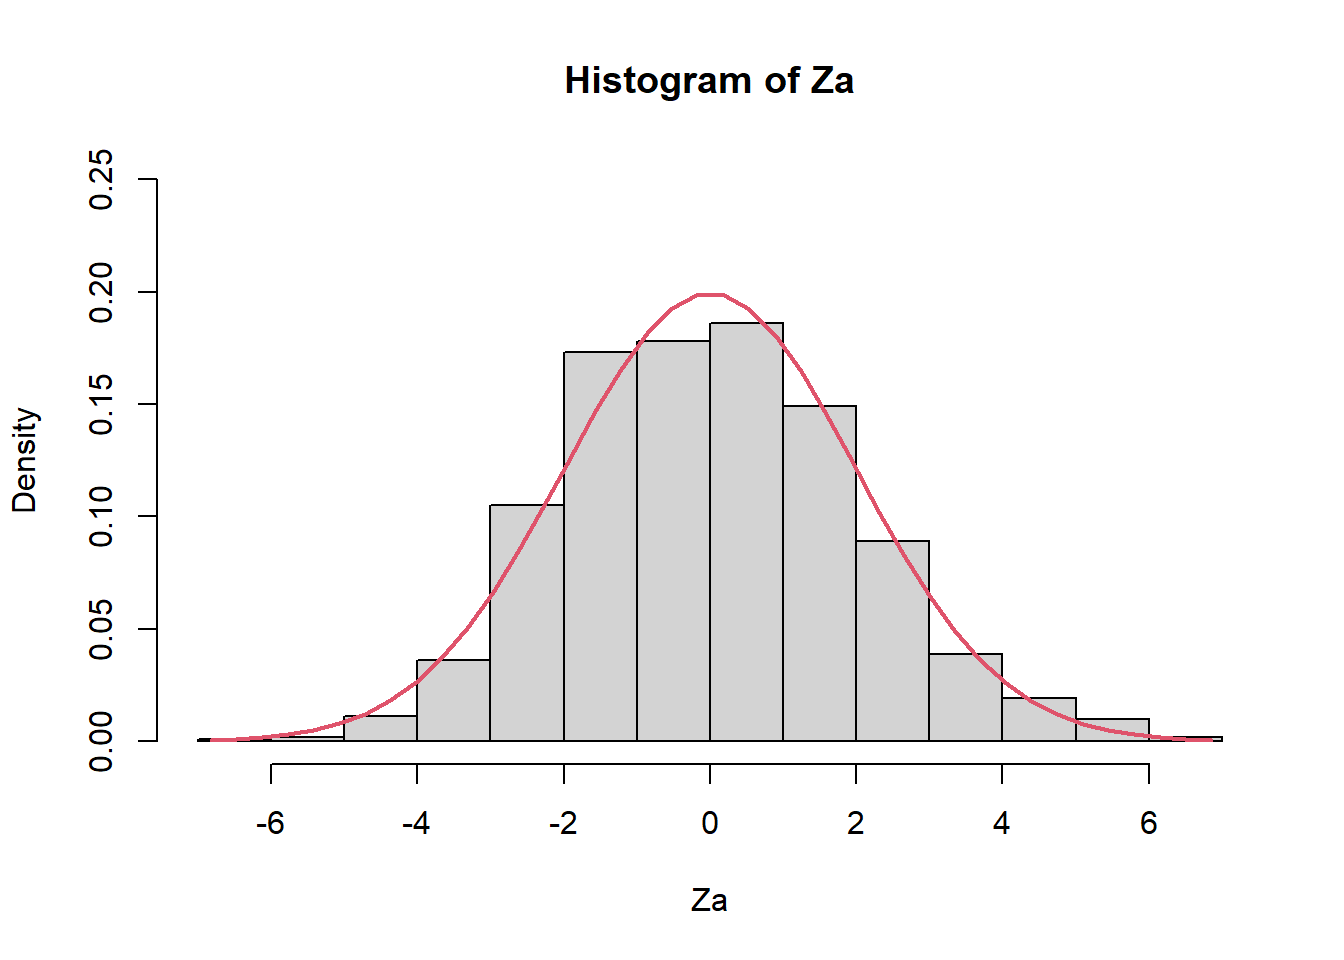
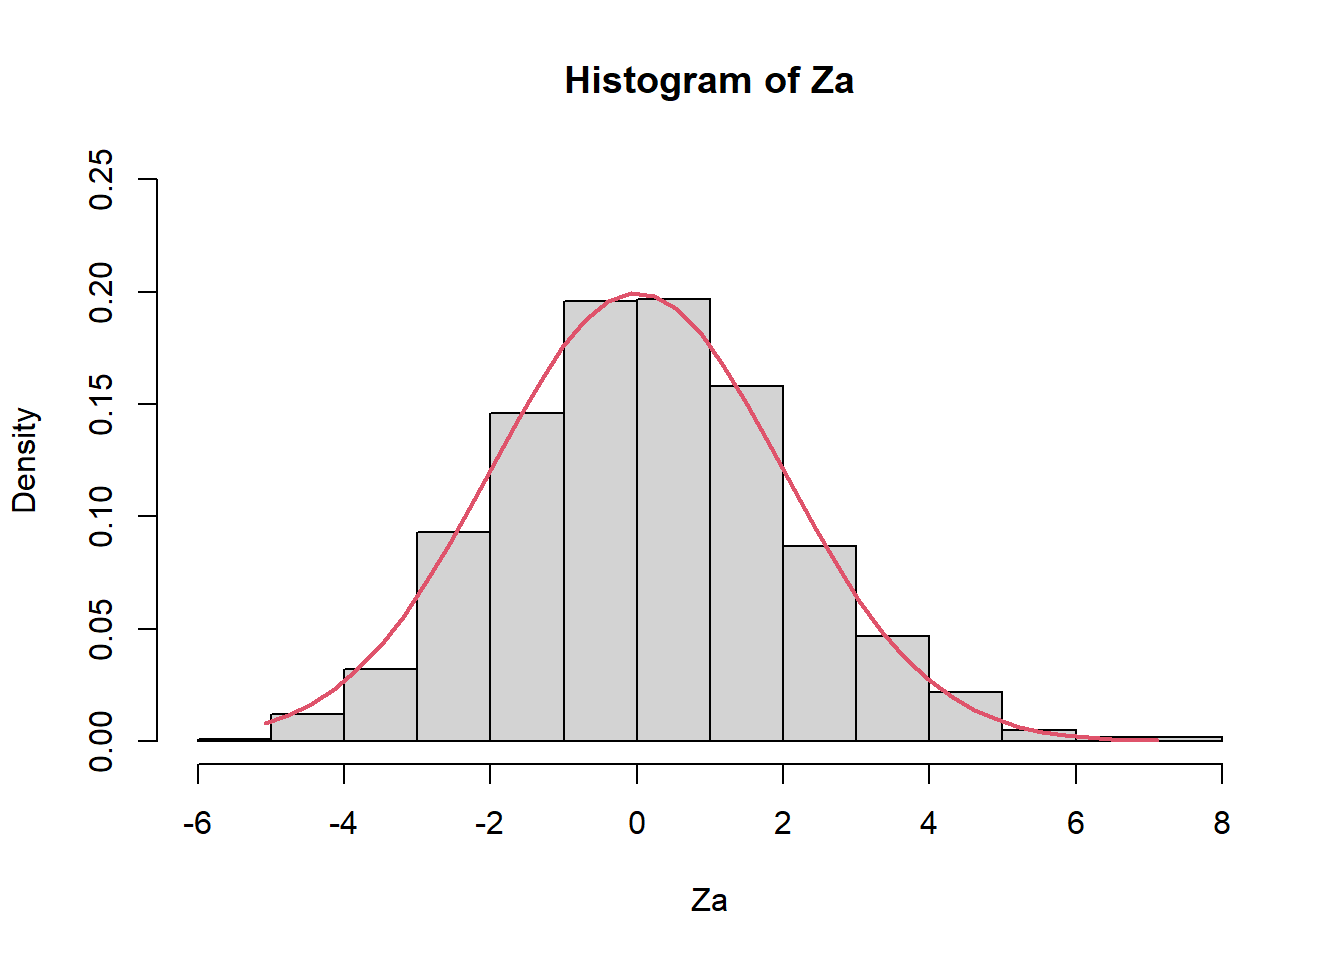
clase08

diff --git a/lab02.html b/lab02.html
@@ -91,7 +91,10 @@ pre > code.sourceCode > span > a:first-child::before { text-decoration: underlin
   <li><a href="#veamos-qué-pasaría-con-n-grande-n150." id="toc-veamos-qué-pasaría-con-n-grande-n150." class="nav-link" data-scroll-target="#veamos-qué-pasaría-con-n-grande-n150."><span class="header-section-number">1.3</span> Veamos qué pasaría con n grande (n=150).</a></li>
   <li><a href="#veamos-qué-pasaría-con-n-grande-n300." id="toc-veamos-qué-pasaría-con-n-grande-n300." class="nav-link" data-scroll-target="#veamos-qué-pasaría-con-n-grande-n300."><span class="header-section-number">1.4</span> Veamos qué pasaría con n grande (n=300).</a></li>
   </ul></li>
-  <li><a href="#comportamiento-del-emv-de-la-desviación-estándar-de-una-población-normal" id="toc-comportamiento-del-emv-de-la-desviación-estándar-de-una-población-normal" class="nav-link" data-scroll-target="#comportamiento-del-emv-de-la-desviación-estándar-de-una-población-normal"><span class="header-section-number">2</span> Comportamiento del EMV de la desviación estándar de una población normal</a></li>
+  <li><a href="#comportamiento-del-emv-de-la-desviación-estándar-de-una-población-normal" id="toc-comportamiento-del-emv-de-la-desviación-estándar-de-una-población-normal" class="nav-link" data-scroll-target="#comportamiento-del-emv-de-la-desviación-estándar-de-una-población-normal"><span class="header-section-number">2</span> Comportamiento del EMV de la desviación estándar de una población normal</a>
+  <ul class="collapse">
+  <li><a href="#visualización-variando-n" id="toc-visualización-variando-n" class="nav-link" data-scroll-target="#visualización-variando-n"><span class="header-section-number">2.1</span> Visualización variando <span class="math inline">\(n\)</span></a></li>
+  </ul></li>
   </ul>
 </nav>
 </div>
@@ -152,11 +155,11 @@ pre > code.sourceCode > span > a:first-child::before { text-decoration: underlin
 </div>
 <div class="sourceCode cell-code" id="cb3"><pre class="sourceCode r code-with-copy"><code class="sourceCode r"><span id="cb3-1"><a href="#cb3-1" aria-hidden="true" tabindex="-1"></a><span class="fu">mean</span>(media_X)</span></code><button title="Copiar al portapapeles" class="code-copy-button"><i class="bi"></i></button></pre></div>
 <div class="cell-output cell-output-stdout">
-<pre><code>[1] 0.499121</code></pre>
+<pre><code>[1] 0.4962818</code></pre>
 </div>
 <div class="sourceCode cell-code" id="cb5"><pre class="sourceCode r code-with-copy"><code class="sourceCode r"><span id="cb5-1"><a href="#cb5-1" aria-hidden="true" tabindex="-1"></a><span class="fu">var</span>(media_X)</span></code><button title="Copiar al portapapeles" class="code-copy-button"><i class="bi"></i></button></pre></div>
 <div class="cell-output cell-output-stdout">
-<pre><code>[1] 0.01235493</code></pre>
+<pre><code>[1] 0.01264798</code></pre>
 </div>
 </div>
 <p>Observe que teóricamente <span class="math inline">\(E(\bar{X})=0.5\)</span> y <span class="math inline">\(Var(\bar{X})=\frac{\beta^2}{n}=\frac{0.5^2}{20}=0.0125\)</span>. El TLC nos garantiza que <span class="math display">\[Z=\frac{\bar{X}-\mu}{\sigma/\sqrt{n}} \overset{d}{\rightarrow} N(0,1).\]</span> Es decir, <span class="math inline">\(Z\)</span> se aproxima cada vez a la normal estándar cuando <span class="math inline">\(n\rightarrow \infty\)</span>. Por ejemplo, con solo <span class="math inline">\(n=20\)</span>, tenemos</p>
@@ -170,11 +173,11 @@ pre > code.sourceCode > span > a:first-child::before { text-decoration: underlin
 </div>
 <div class="sourceCode cell-code" id="cb8"><pre class="sourceCode r code-with-copy"><code class="sourceCode r"><span id="cb8-1"><a href="#cb8-1" aria-hidden="true" tabindex="-1"></a><span class="fu">mean</span>(Z)</span></code><button title="Copiar al portapapeles" class="code-copy-button"><i class="bi"></i></button></pre></div>
 <div class="cell-output cell-output-stdout">
-<pre><code>[1] -0.007861934</code></pre>
+<pre><code>[1] -0.03325625</code></pre>
 </div>
 <div class="sourceCode cell-code" id="cb10"><pre class="sourceCode r code-with-copy"><code class="sourceCode r"><span id="cb10-1"><a href="#cb10-1" aria-hidden="true" tabindex="-1"></a><span class="fu">var</span>(Z)</span></code><button title="Copiar al portapapeles" class="code-copy-button"><i class="bi"></i></button></pre></div>
 <div class="cell-output cell-output-stdout">
-<pre><code>[1] 0.9883946</code></pre>
+<pre><code>[1] 1.011838</code></pre>
 </div>
 </div>
 <p>De la misma forma, puedo calcular</p>
@@ -192,11 +195,11 @@ Z_a=n^{\frac{1}{2}}(\bar{X}-\mu) \overset{d}{\rightarrow} N(0,\sigma^2)
 </div>
 <div class="sourceCode cell-code" id="cb13"><pre class="sourceCode r code-with-copy"><code class="sourceCode r"><span id="cb13-1"><a href="#cb13-1" aria-hidden="true" tabindex="-1"></a><span class="fu">mean</span>(Za)</span></code><button title="Copiar al portapapeles" class="code-copy-button"><i class="bi"></i></button></pre></div>
 <div class="cell-output cell-output-stdout">
-<pre><code>[1] -0.003930967</code></pre>
+<pre><code>[1] -0.01662812</code></pre>
 </div>
 <div class="sourceCode cell-code" id="cb15"><pre class="sourceCode r code-with-copy"><code class="sourceCode r"><span id="cb15-1"><a href="#cb15-1" aria-hidden="true" tabindex="-1"></a><span class="fu">var</span>(Za)</span></code><button title="Copiar al portapapeles" class="code-copy-button"><i class="bi"></i></button></pre></div>
 <div class="cell-output cell-output-stdout">
-<pre><code>[1] 0.2470987</code></pre>
+<pre><code>[1] 0.2529596</code></pre>
 </div>
 </div>
 </section>
@@ -207,12 +210,12 @@ Z_a=n^{\frac{1}{2}}(\bar{X}-\mu) \overset{d}{\rightarrow} N(0,\sigma^2)
 <span id="cb17-2"><a href="#cb17-2" aria-hidden="true" tabindex="-1"></a><span class="fu">head</span>(<span class="fu">cbind</span>(media_X,inv_media_X))</span></code><button title="Copiar al portapapeles" class="code-copy-button"><i class="bi"></i></button></pre></div>
 <div class="cell-output cell-output-stdout">
 <pre><code>       media_X inv_media_X
-[1,] 0.4455646    2.244344
-[2,] 0.4585123    2.180967
-[3,] 0.6388522    1.565307
-[4,] 0.4321656    2.313928
-[5,] 0.5409491    1.848603
-[6,] 0.3435712    2.910605</code></pre>
+[1,] 0.4649204    2.150906
+[2,] 0.5897773    1.695555
+[3,] 0.4131797    2.420254
+[4,] 0.4549265    2.198157
+[5,] 0.3540132    2.824753
+[6,] 0.5687349    1.758289</code></pre>
 </div>
 <div class="sourceCode cell-code" id="cb19"><pre class="sourceCode r code-with-copy"><code class="sourceCode r"><span id="cb19-1"><a href="#cb19-1" aria-hidden="true" tabindex="-1"></a><span class="fu">hist</span>(inv_media_X)</span></code><button title="Copiar al portapapeles" class="code-copy-button"><i class="bi"></i></button></pre></div>
 <div class="cell-output-display">
@@ -220,11 +223,11 @@ Z_a=n^{\frac{1}{2}}(\bar{X}-\mu) \overset{d}{\rightarrow} N(0,\sigma^2)
 </div>
 <div class="sourceCode cell-code" id="cb20"><pre class="sourceCode r code-with-copy"><code class="sourceCode r"><span id="cb20-1"><a href="#cb20-1" aria-hidden="true" tabindex="-1"></a><span class="fu">mean</span>(media_X)</span></code><button title="Copiar al portapapeles" class="code-copy-button"><i class="bi"></i></button></pre></div>
 <div class="cell-output cell-output-stdout">
-<pre><code>[1] 0.499121</code></pre>
+<pre><code>[1] 0.4962818</code></pre>
 </div>
 <div class="sourceCode cell-code" id="cb22"><pre class="sourceCode r code-with-copy"><code class="sourceCode r"><span id="cb22-1"><a href="#cb22-1" aria-hidden="true" tabindex="-1"></a><span class="fu">var</span>(media_X)</span></code><button title="Copiar al portapapeles" class="code-copy-button"><i class="bi"></i></button></pre></div>
 <div class="cell-output cell-output-stdout">
-<pre><code>[1] 0.01235493</code></pre>
+<pre><code>[1] 0.01264798</code></pre>
 </div>
 </div>
 <p>Usando el resultado con el Método Delta (diapositiva 11 de la clase 8).</p>
@@ -239,11 +242,11 @@ Z_a=n^{\frac{1}{2}}(\bar{X}-\mu) \overset{d}{\rightarrow} N(0,\sigma^2)
 </div>
 <div class="sourceCode cell-code" id="cb25"><pre class="sourceCode r code-with-copy"><code class="sourceCode r"><span id="cb25-1"><a href="#cb25-1" aria-hidden="true" tabindex="-1"></a><span class="fu">mean</span>(Za)</span></code><button title="Copiar al portapapeles" class="code-copy-button"><i class="bi"></i></button></pre></div>
 <div class="cell-output cell-output-stdout">
-<pre><code>[1] 0.4740469</code></pre>
+<pre><code>[1] 0.5415072</code></pre>
 </div>
 <div class="sourceCode cell-code" id="cb27"><pre class="sourceCode r code-with-copy"><code class="sourceCode r"><span id="cb27-1"><a href="#cb27-1" aria-hidden="true" tabindex="-1"></a><span class="fu">var</span>(Za)</span></code><button title="Copiar al portapapeles" class="code-copy-button"><i class="bi"></i></button></pre></div>
 <div class="cell-output cell-output-stdout">
-<pre><code>[1] 4.640926</code></pre>
+<pre><code>[1] 4.815359</code></pre>
 </div>
 </div>
 </section>
@@ -269,11 +272,11 @@ Z_a=n^{\frac{1}{2}}(\bar{X}-\mu) \overset{d}{\rightarrow} N(0,\sigma^2)
 </div>
 <div class="sourceCode cell-code" id="cb31"><pre class="sourceCode r code-with-copy"><code class="sourceCode r"><span id="cb31-1"><a href="#cb31-1" aria-hidden="true" tabindex="-1"></a><span class="fu">mean</span>(Za)</span></code><button title="Copiar al portapapeles" class="code-copy-button"><i class="bi"></i></button></pre></div>
 <div class="cell-output cell-output-stdout">
-<pre><code>[1] 0.1111955</code></pre>
+<pre><code>[1] 0.1431849</code></pre>
 </div>
 <div class="sourceCode cell-code" id="cb33"><pre class="sourceCode r code-with-copy"><code class="sourceCode r"><span id="cb33-1"><a href="#cb33-1" aria-hidden="true" tabindex="-1"></a><span class="fu">var</span>(Za)</span></code><button title="Copiar al portapapeles" class="code-copy-button"><i class="bi"></i></button></pre></div>
 <div class="cell-output cell-output-stdout">
-<pre><code>[1] 4.118139</code></pre>
+<pre><code>[1] 4.089688</code></pre>
 </div>
 </div>
 </section>
@@ -299,11 +302,11 @@ Z_a=n^{\frac{1}{2}}(\bar{X}-\mu) \overset{d}{\rightarrow} N(0,\sigma^2)
 </div>
 <div class="sourceCode cell-code" id="cb37"><pre class="sourceCode r code-with-copy"><code class="sourceCode r"><span id="cb37-1"><a href="#cb37-1" aria-hidden="true" tabindex="-1"></a><span class="fu">mean</span>(Za)</span></code><button title="Copiar al portapapeles" class="code-copy-button"><i class="bi"></i></button></pre></div>
 <div class="cell-output cell-output-stdout">
-<pre><code>[1] 0.02619344</code></pre>
+<pre><code>[1] 0.1319572</code></pre>
 </div>
 <div class="sourceCode cell-code" id="cb39"><pre class="sourceCode r code-with-copy"><code class="sourceCode r"><span id="cb39-1"><a href="#cb39-1" aria-hidden="true" tabindex="-1"></a><span class="fu">var</span>(Za)</span></code><button title="Copiar al portapapeles" class="code-copy-button"><i class="bi"></i></button></pre></div>
 <div class="cell-output cell-output-stdout">
-<pre><code>[1] 3.995165</code></pre>
+<pre><code>[1] 3.788877</code></pre>
 </div>
 </div>
 </section>
@@ -335,11 +338,11 @@ Z_a=n^{\frac{1}{2}}(\bar{X}-\mu) \overset{d}{\rightarrow} N(0,\sigma^2)
 </div>
 <div class="sourceCode cell-code" id="cb43"><pre class="sourceCode r code-with-copy"><code class="sourceCode r"><span id="cb43-1"><a href="#cb43-1" aria-hidden="true" tabindex="-1"></a><span class="fu">mean</span>(sd_MV_X)</span></code><button title="Copiar al portapapeles" class="code-copy-button"><i class="bi"></i></button></pre></div>
 <div class="cell-output cell-output-stdout">
-<pre><code>[1] 1.377022</code></pre>
+<pre><code>[1] 1.383205</code></pre>
 </div>
 <div class="sourceCode cell-code" id="cb45"><pre class="sourceCode r code-with-copy"><code class="sourceCode r"><span id="cb45-1"><a href="#cb45-1" aria-hidden="true" tabindex="-1"></a><span class="fu">var</span>(sd_MV_X)</span></code><button title="Copiar al portapapeles" class="code-copy-button"><i class="bi"></i></button></pre></div>
 <div class="cell-output cell-output-stdout">
-<pre><code>[1] 0.03461691</code></pre>
+<pre><code>[1] 0.03225485</code></pre>
 </div>
 </div>
 <p>Sabemos que para muestras grandes, la distirbución de <span class="math inline">\(\hat{\sigma}\)</span> converge a una distirbución normal con media <span class="math inline">\(\sigma=\sqrt{2} \approx 1.41\)</span> y variancia <span class="math inline">\(1/[I(\sigma)]=\left(\frac{2n}{ \sigma^2}\right)^{-1}=\left( \frac{2 \cdot 30}{2} \right)^{-1} =1/30\approx 0.0334\)</span>.</p>
@@ -355,13 +358,55 @@ Z_a=n^{\frac{1}{2}}(\bar{X}-\mu) \overset{d}{\rightarrow} N(0,\sigma^2)
 </div>
 <div class="sourceCode cell-code" id="cb48"><pre class="sourceCode r code-with-copy"><code class="sourceCode r"><span id="cb48-1"><a href="#cb48-1" aria-hidden="true" tabindex="-1"></a><span class="fu">mean</span>(Za)</span></code><button title="Copiar al portapapeles" class="code-copy-button"><i class="bi"></i></button></pre></div>
 <div class="cell-output cell-output-stdout">
-<pre><code>[1] -0.2037048</code></pre>
+<pre><code>[1] -0.1698389</code></pre>
 </div>
 <div class="sourceCode cell-code" id="cb50"><pre class="sourceCode r code-with-copy"><code class="sourceCode r"><span id="cb50-1"><a href="#cb50-1" aria-hidden="true" tabindex="-1"></a><span class="fu">var</span>(Za)</span></code><button title="Copiar al portapapeles" class="code-copy-button"><i class="bi"></i></button></pre></div>
 <div class="cell-output cell-output-stdout">
-<pre><code>[1] 1.038507</code></pre>
+<pre><code>[1] 0.9676455</code></pre>
 </div>
 </div>
+<section id="visualización-variando-n" class="level2" data-number="2.1">
+<h2 data-number="2.1" class="anchored" data-anchor-id="visualización-variando-n"><span class="header-section-number">2.1</span> Visualización variando <span class="math inline">\(n\)</span></h2>
+<div class="cell">
+<div class="sourceCode cell-code" id="cb52"><pre class="sourceCode r code-with-copy"><code class="sourceCode r"><span id="cb52-1"><a href="#cb52-1" aria-hidden="true" tabindex="-1"></a>K <span class="ot">&lt;-</span> <span class="dv">1000</span></span>
+<span id="cb52-2"><a href="#cb52-2" aria-hidden="true" tabindex="-1"></a>N <span class="ot">&lt;-</span> <span class="fu">c</span>(<span class="dv">10</span>,<span class="dv">20</span>,<span class="dv">30</span>,<span class="dv">40</span>,<span class="dv">50</span>,<span class="dv">60</span>,<span class="dv">70</span>,<span class="dv">80</span>,<span class="dv">90</span>,<span class="dv">100</span>)</span>
+<span id="cb52-3"><a href="#cb52-3" aria-hidden="true" tabindex="-1"></a>sd_MV_estimador <span class="ot">&lt;-</span> <span class="fu">list</span>()</span>
+<span id="cb52-4"><a href="#cb52-4" aria-hidden="true" tabindex="-1"></a>sd_MV_X <span class="ot">&lt;-</span> <span class="fu">list</span>()</span>
+<span id="cb52-5"><a href="#cb52-5" aria-hidden="true" tabindex="-1"></a><span class="cf">for</span>(n <span class="cf">in</span> <span class="dv">1</span><span class="sc">:</span><span class="fu">length</span>(N)){</span>
+<span id="cb52-6"><a href="#cb52-6" aria-hidden="true" tabindex="-1"></a>  <span class="cf">for</span>(i <span class="cf">in</span> <span class="dv">1</span><span class="sc">:</span>K){</span>
+<span id="cb52-7"><a href="#cb52-7" aria-hidden="true" tabindex="-1"></a>    x <span class="ot">&lt;-</span> <span class="fu">rnorm</span>(<span class="at">n=</span>N[n],<span class="at">mean=</span><span class="dv">10</span>,<span class="at">sd=</span><span class="fu">sqrt</span>(<span class="dv">2</span>)) </span>
+<span id="cb52-8"><a href="#cb52-8" aria-hidden="true" tabindex="-1"></a>    sd_MV_X[i] <span class="ot">&lt;-</span> <span class="fu">sd_MV</span>(x)</span>
+<span id="cb52-9"><a href="#cb52-9" aria-hidden="true" tabindex="-1"></a>  }</span>
+<span id="cb52-10"><a href="#cb52-10" aria-hidden="true" tabindex="-1"></a>  sd_MV_X <span class="ot">&lt;-</span> <span class="fu">unlist</span>(sd_MV_X)</span>
+<span id="cb52-11"><a href="#cb52-11" aria-hidden="true" tabindex="-1"></a>  </span>
+<span id="cb52-12"><a href="#cb52-12" aria-hidden="true" tabindex="-1"></a>  Za <span class="ot">=</span> <span class="fu">sqrt</span>(<span class="dv">2</span><span class="sc">*</span>N[n]<span class="sc">/</span><span class="dv">2</span>)<span class="sc">*</span>(sd_MV_X<span class="sc">-</span><span class="fu">sqrt</span>(<span class="dv">2</span>))</span>
+<span id="cb52-13"><a href="#cb52-13" aria-hidden="true" tabindex="-1"></a>    sd_MV_estimador[[n]]<span class="ot">=</span> <span class="fu">data.frame</span>(Za,<span class="at">n=</span>N[n])</span>
+<span id="cb52-14"><a href="#cb52-14" aria-hidden="true" tabindex="-1"></a>}</span>
+<span id="cb52-15"><a href="#cb52-15" aria-hidden="true" tabindex="-1"></a></span>
+<span id="cb52-16"><a href="#cb52-16" aria-hidden="true" tabindex="-1"></a>resultados <span class="ot">=</span> rlist<span class="sc">::</span><span class="fu">list.rbind</span>(sd_MV_estimador)</span>
+<span id="cb52-17"><a href="#cb52-17" aria-hidden="true" tabindex="-1"></a></span>
+<span id="cb52-18"><a href="#cb52-18" aria-hidden="true" tabindex="-1"></a><span class="fu">library</span>(ggplot2)</span>
+<span id="cb52-19"><a href="#cb52-19" aria-hidden="true" tabindex="-1"></a><span class="fu">library</span>(hrbrthemes)</span></code><button title="Copiar al portapapeles" class="code-copy-button"><i class="bi"></i></button></pre></div>
+<div class="cell-output cell-output-stderr">
+<pre><code>Warning: package 'hrbrthemes' was built under R version 4.3.3</code></pre>
+</div>
+<div class="sourceCode cell-code" id="cb54"><pre class="sourceCode r code-with-copy"><code class="sourceCode r"><span id="cb54-1"><a href="#cb54-1" aria-hidden="true" tabindex="-1"></a><span class="fu">library</span>(viridis)</span></code><button title="Copiar al portapapeles" class="code-copy-button"><i class="bi"></i></button></pre></div>
+<div class="cell-output cell-output-stderr">
+<pre><code>Warning: package 'viridis' was built under R version 4.3.3</code></pre>
+</div>
+<div class="cell-output cell-output-stderr">
+<pre><code>Loading required package: viridisLite</code></pre>
+</div>
+<div class="sourceCode cell-code" id="cb57"><pre class="sourceCode r code-with-copy"><code class="sourceCode r"><span id="cb57-1"><a href="#cb57-1" aria-hidden="true" tabindex="-1"></a>p2 <span class="ot">&lt;-</span> <span class="fu">ggplot</span>(<span class="at">data=</span>resultados, <span class="fu">aes</span>(<span class="at">x=</span>Za, <span class="at">color=</span><span class="fu">as.factor</span>(n))) <span class="sc">+</span></span>
+<span id="cb57-2"><a href="#cb57-2" aria-hidden="true" tabindex="-1"></a>    <span class="fu">geom_density</span>(<span class="at">adjust=</span><span class="fl">1.5</span>) <span class="sc">+</span></span>
+<span id="cb57-3"><a href="#cb57-3" aria-hidden="true" tabindex="-1"></a>    <span class="fu">theme_classic</span>()<span class="sc">+</span> <span class="fu">scale_color_viridis</span>(<span class="at">discrete =</span> <span class="cn">TRUE</span>, <span class="at">option =</span> <span class="st">"D"</span>)</span>
+<span id="cb57-4"><a href="#cb57-4" aria-hidden="true" tabindex="-1"></a></span>
+<span id="cb57-5"><a href="#cb57-5" aria-hidden="true" tabindex="-1"></a>p2</span></code><button title="Copiar al portapapeles" class="code-copy-button"><i class="bi"></i></button></pre></div>
+<div class="cell-output-display">
+<p><img src="lab02_files/figure-html/unnamed-chunk-14-1.png" class="img-fluid" width="672"></p>
+</div>
+</div>
+</section>
 </section>
 
 </main>

diff --git a/XS3310-I24_08.html b/XS3310-I24_08.html
@@ -479,6 +479,7 @@ n^{1 / 2}\left(2(\bar{X}_{n})^{1/2}-2(\theta)^{1/2}\right)
 </section>
 <section id="ejercicio" class="slide level2">
 <h2>Ejercicio</h2>
+<p>1- Suponga que <span class="math inline">\(X_1, X_2, ..., X_n\)</span> es una muestra aleatoria exponencial con paramétro <span class="math inline">\(\beta\)</span>. Se sabe que la esperanza es <span class="math inline">\(\beta\)</span> y varianza <span class="math inline">\(\beta ^2\)</span>. Encuentre una función <span class="math inline">\(g(\beta)\)</span> de modo que la convergencia en distribución de <span class="math inline">\(g(\overline{X})\)</span> no depende de <span class="math inline">\(\theta\)</span>.</p>
 
 <img data-src="figs/ejercicio.png" class="r-stretch"><div class="footer footer-default">
 
